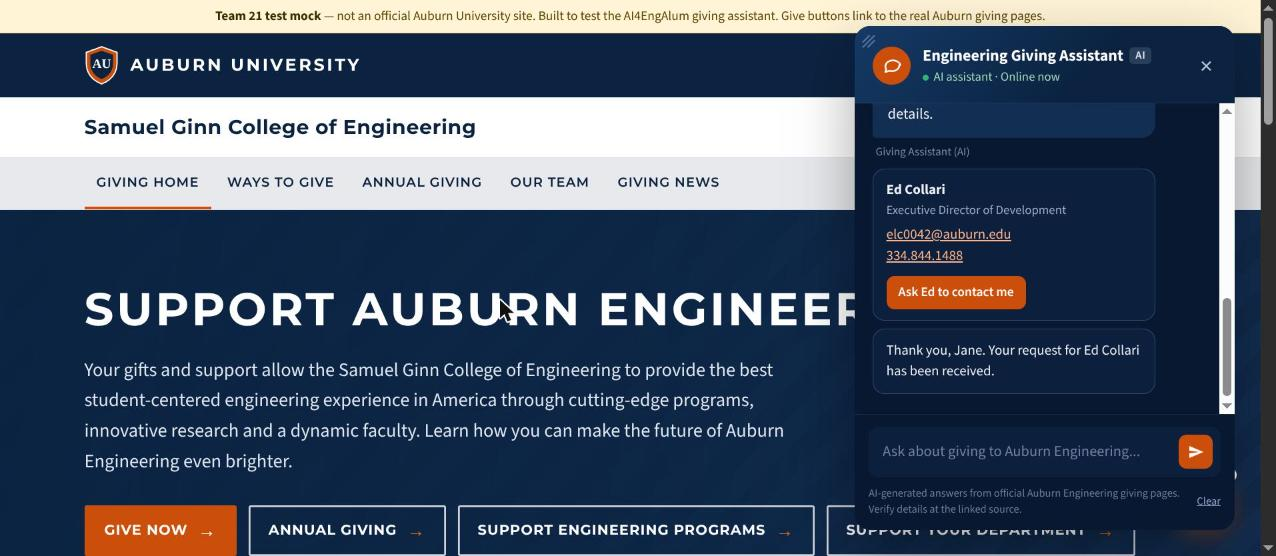
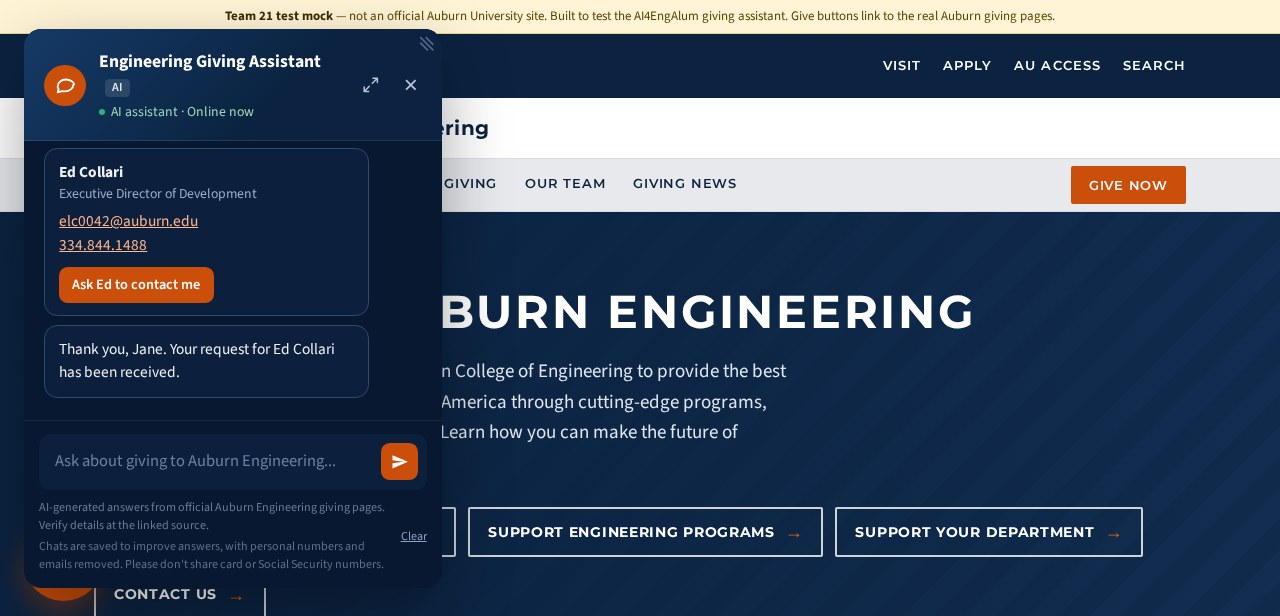
Widget 10% larger: every size is multiplied by SCALE (1.1)
Text, button, panel and spacing grow together. data-scale on the script tag
overrides it per page. Borders of 1-2 px, the phone breakpoint and the
back-to-top alignment are not scaled. User guide screenshots retaken to show
the new position and size.

diff --git a/rag/static/site/chat-widget.js b/rag/static/site/chat-widget.js
@@ -11,6 +11,9 @@
  * (bottom-right, 42x38 px, 36 px from the bottom, so its center is 55 px up). Change TOP_BUTTON_MID
  * if the site moves that button.
  *
+ * Size: every size in the widget (button, panel, text, spacing) is multiplied by SCALE (1.1).
+ * Override it per page with data-scale="1.2" on the script tag.
+ *
  * Privacy: in the browser, the conversation lives only in this page's memory. It is never written
  * to localStorage, sessionStorage, or cookies, and it is gone on reload, navigation, tab close, or
  * "Clear". Recent turns are sent with each request so the assistant can follow up. The server
@@ -44,12 +47,17 @@
   // Shown in the footer. If the server runs with CHAT_LOG=0, set this to ''.
   const SAVE_NOTICE = 'Chats are saved to improve answers, with personal numbers and emails removed. Please don\'t share card or Social Security numbers.';
   const TOP_BUTTON_MID = 55; // px from the viewport bottom to the center of the site's back-to-top button
+  const SCALE = Number(script && script.dataset.scale) || 1.1; // widget size; 1 = the original design
+  // Multiply every px size of 3 or more in the styles by SCALE. 1-2 px borders stay sharp, and the
+  // phone breakpoint (max-width) and the back-to-top alignment are page geometry, not widget size.
+  const scalePx = (text) => text.replace(/(\(max-width:)?(\d*\.?\d+)px/g, (m, bp, n) =>
+    bp || Number(n) < 3 ? m : +(Number(n) * SCALE).toFixed(2) + 'px');
 
-  const css = `
+  const css = scalePx(`
   #aug-chat{--toggle:72px;--navy:#0b2341;--navy-deep:#071830;--orange:#cc4e0b;--orange-hi:#e86100;
     font-family:'Source Sans 3',-apple-system,BlinkMacSystemFont,'Segoe UI',sans-serif;line-height:1.5;}
   #aug-chat *{box-sizing:border-box;}
-  #aug-chat .launcher{position:fixed;left:22px;bottom:calc(${TOP_BUTTON_MID}px - var(--toggle) / 2);z-index:2147483000;display:flex;
+  #aug-chat .launcher{position:fixed;left:22px;bottom:calc(var(--top-mid) - var(--toggle) / 2);z-index:2147483000;display:flex;
     flex-direction:row-reverse;align-items:flex-end;gap:12px;}
   #aug-chat .teaser{background:#fff;color:#1d232c;max-width:250px;padding:14px 34px 14px 16px;border-radius:14px;
     box-shadow:0 10px 30px rgba(11,35,65,.22);font-size:15px;line-height:1.4;position:relative;cursor:pointer;
@@ -151,13 +159,14 @@
   #aug-chat .foot .save{display:block;margin-top:3px;color:#5f6f8c;}
   #aug-chat .foot button{background:none;border:none;color:#8aa0c4;font:inherit;font-size:11px;cursor:pointer;padding:0;text-decoration:underline;}
   @media (max-width:460px){
-    #aug-chat .panel{right:0;bottom:0;left:0;width:100%;max-width:100%;height:100%;max-height:100%;border-radius:0;}
+    #aug-chat .panel{right:0;bottom:0;left:0;width:100%;max-width:100%;min-width:0;height:100%;max-height:100%;border-radius:0;}
     #aug-chat .launcher{left:16px;bottom:16px;}
     #aug-chat .resize{display:none;}
     #aug-chat .expand{display:none;}
     #aug-chat .teaser{max-width:200px;}
   }
-  @media (prefers-reduced-motion:reduce){#aug-chat .teaser,#aug-chat .panel,#aug-chat .toggle{transition:none;}}`;
+  @media (prefers-reduced-motion:reduce){#aug-chat .teaser,#aug-chat .panel,#aug-chat .toggle{transition:none;}}`)
+  + `#aug-chat{--top-mid:${TOP_BUTTON_MID}px;}`;
 
   const BUBBLE_ICON = '<path d="M21 11.5c0 4.14-4.03 7.5-9 7.5-1.06 0-2.08-.15-3.02-.43L4 20l1.06-3.18C4.4 15.6 4 14.6 4 13.5 4 9.36 8.03 6 13 6s9 3.36 9 5.5z"/>';
   const GREETING = "Hi! I'm the Auburn Engineering giving assistant, an AI tool. I can help with ways to give, supporting a specific department, the EAGLE Society, or finding the right person on our advancement team.";
@@ -522,7 +531,7 @@
   });
 
   // ---- Drag-to-resize (panel is anchored bottom-left, so the grip is top-right) ----
-  const MIN_W = 300, MIN_H = 340;
+  const MIN_W = 300 * SCALE, MIN_H = 340 * SCALE, MAX_W = 640 * SCALE, MAX_H = 760 * SCALE;
   let drag = null;
   $('.resize').addEventListener('pointerdown', (e) => {
     if (window.innerWidth <= 460 || panel.classList.contains('full')) return;
@@ -533,8 +542,8 @@
   });
   document.addEventListener('pointermove', (e) => {
     if (!drag) return;
-    const w = Math.min(Math.max(drag.w + e.clientX - drag.x, MIN_W), Math.min(640, window.innerWidth - 32));
-    const h = Math.min(Math.max(drag.h + drag.y - e.clientY, MIN_H), Math.min(window.innerHeight - 32, 760));
+    const w = Math.min(Math.max(drag.w + e.clientX - drag.x, MIN_W), Math.min(MAX_W, window.innerWidth - 32));
+    const h = Math.min(Math.max(drag.h + drag.y - e.clientY, MIN_H), Math.min(window.innerHeight - 32, MAX_H));
     panel.style.width = w + 'px';
     panel.style.height = h + 'px';
   });

diff --git a/docs/WEB_TEAM_HANDOFF.md b/docs/WEB_TEAM_HANDOFF.md
@@ -39,6 +39,10 @@ path, point it there:
 `/contact` and `/unanswered` are found next to `data-endpoint`, or can be set separately with
 `data-contact-endpoint` and `data-unanswered-endpoint`.
 
+The widget is drawn at 1.1 times its original design size (`SCALE` in the file). To change that on
+one page, add `data-scale="1.2"` (or `1` for the original size) to the script tag. The chat button
+stays level with the site's back-to-top button at any scale.
+
 All widget styles are scoped under `#aug-chat`, so they won't affect the page's CSS. The only thing
 it writes to the browser is one sessionStorage flag: whether the visitor closed the greeting bubble.
 

diff --git a/docs/USER_GUIDE.md b/docs/USER_GUIDE.md
@@ -79,8 +79,9 @@ seconds, with a link to the official page it came from.
    Mechanical?" The assistant uses the last few messages to understand the follow-up.
 
    ![A follow-up question showing the Mechanical Engineering contact](images/05_follow_up_card.jpg)
-9. **Clearing.** The **Clear** button erases the conversation. Reloading or leaving the page also
-   erases it.
+9. **Clearing.** The **Clear** button erases the conversation from the screen and starts a new one.
+   Reloading or leaving the page does the same. Saved messages (personal numbers removed) stay in
+   the database for the monthly recap.
 
 ---
 
